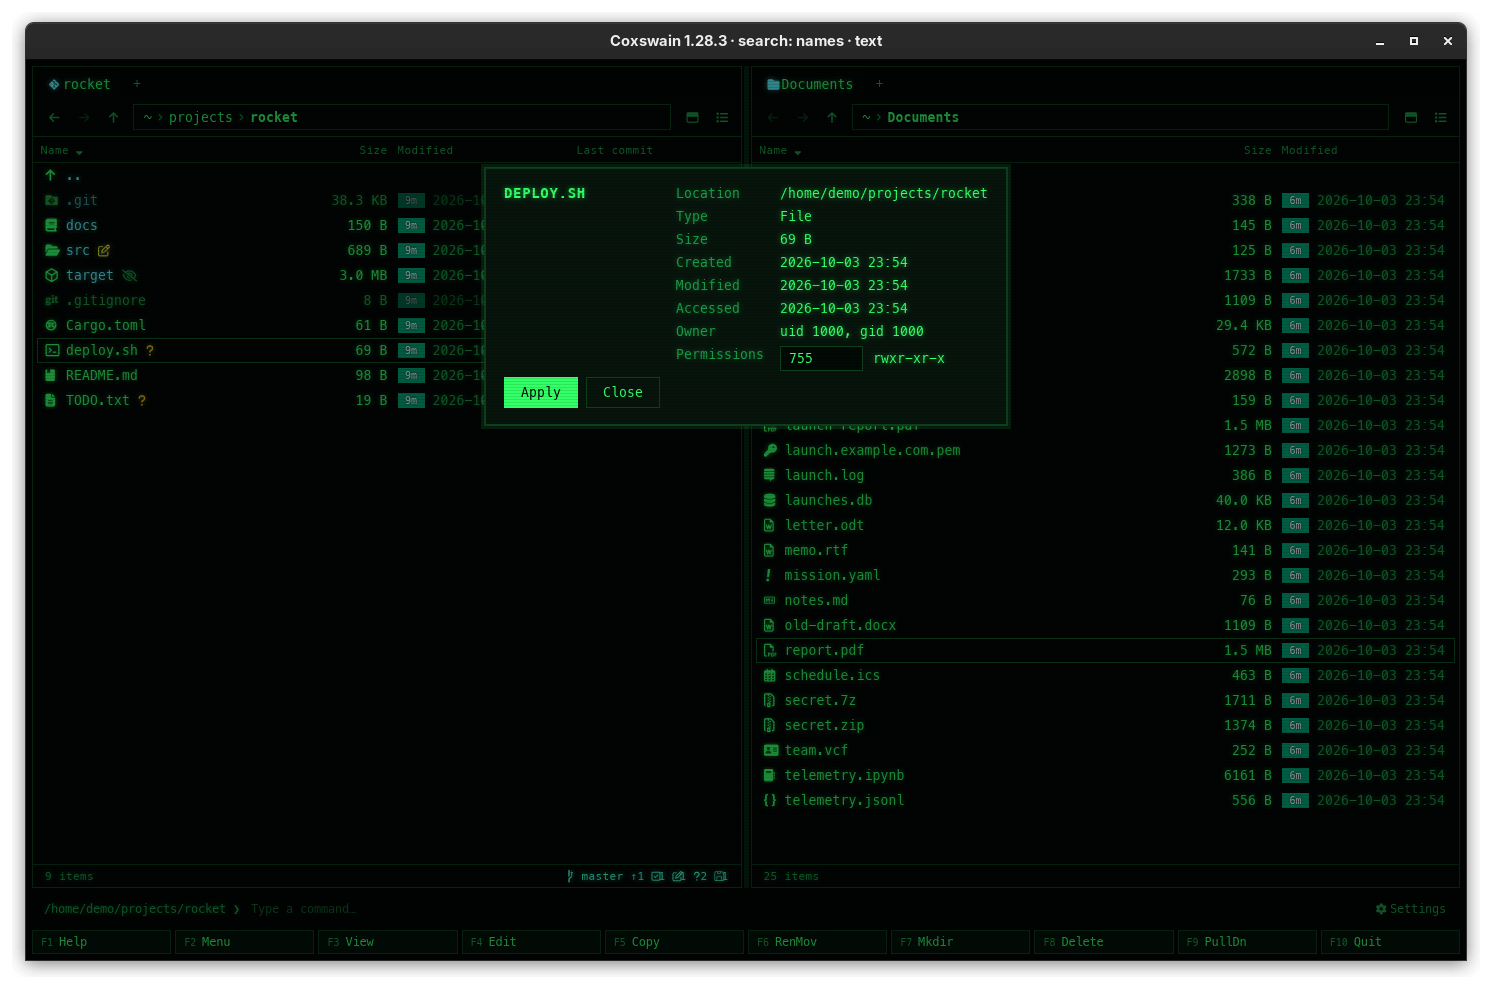
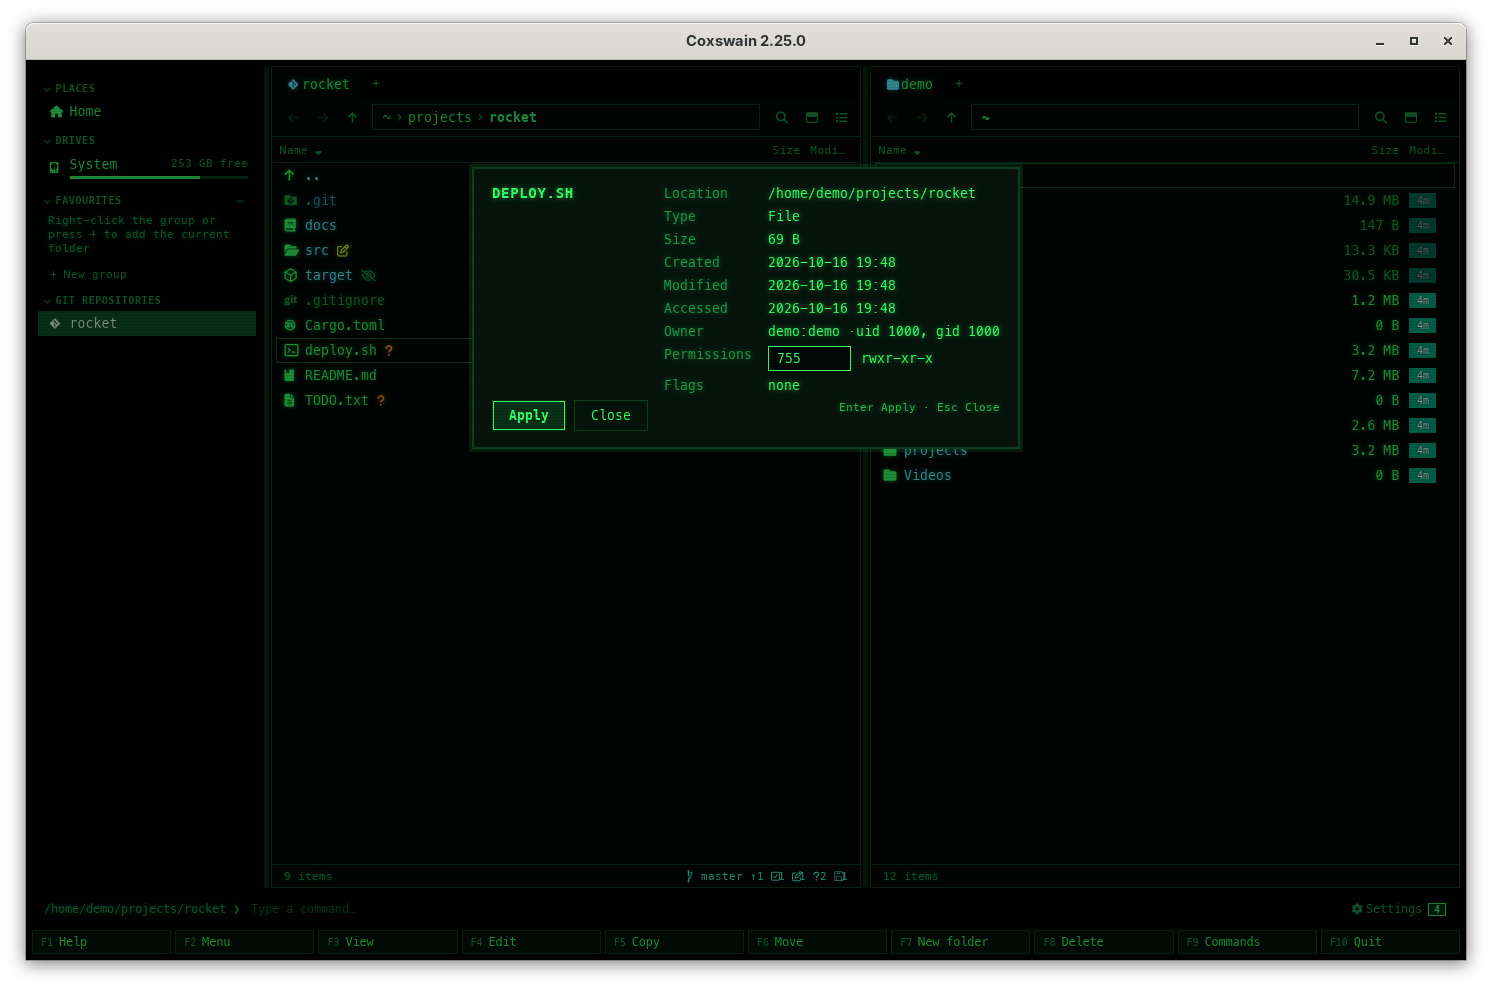
Properties picture retaken: the Owner line shows names

diff --git a/docs/files/properties.md b/docs/files/properties.md
@@ -7,8 +7,7 @@ the system has them, its ZFS dataset, the FreeBSD package it belongs to and its 
 the desktop app you can change the permission bits there (on Windows the read-only flag) and
 your own file flags; the terminal app shows the same facts in a window of text.
 
-![The Properties dialog of deploy.sh: Location /home/demo/projects/rocket, Type File, Size 69 B, Created, Modified and Accessed, Owner uid 1000, gid 1000, Permissions 755 with rwxr-xr-x next to it, Apply and Close](../screenshots/files-properties.png)
-<!-- screenshot: files-properties.png: retake: the Owner line now reads demo:demo · uid 1000, gid 1000 -->
+![The Properties dialog of deploy.sh: Location /home/demo/projects/rocket, Type File, Size 69 B, Created, Modified and Accessed, Owner demo:demo · uid 1000, gid 1000, Permissions 755 with rwxr-xr-x next to it, Flags none, Apply and Close](../screenshots/files-properties.png)
 
 ## How to use it
 
